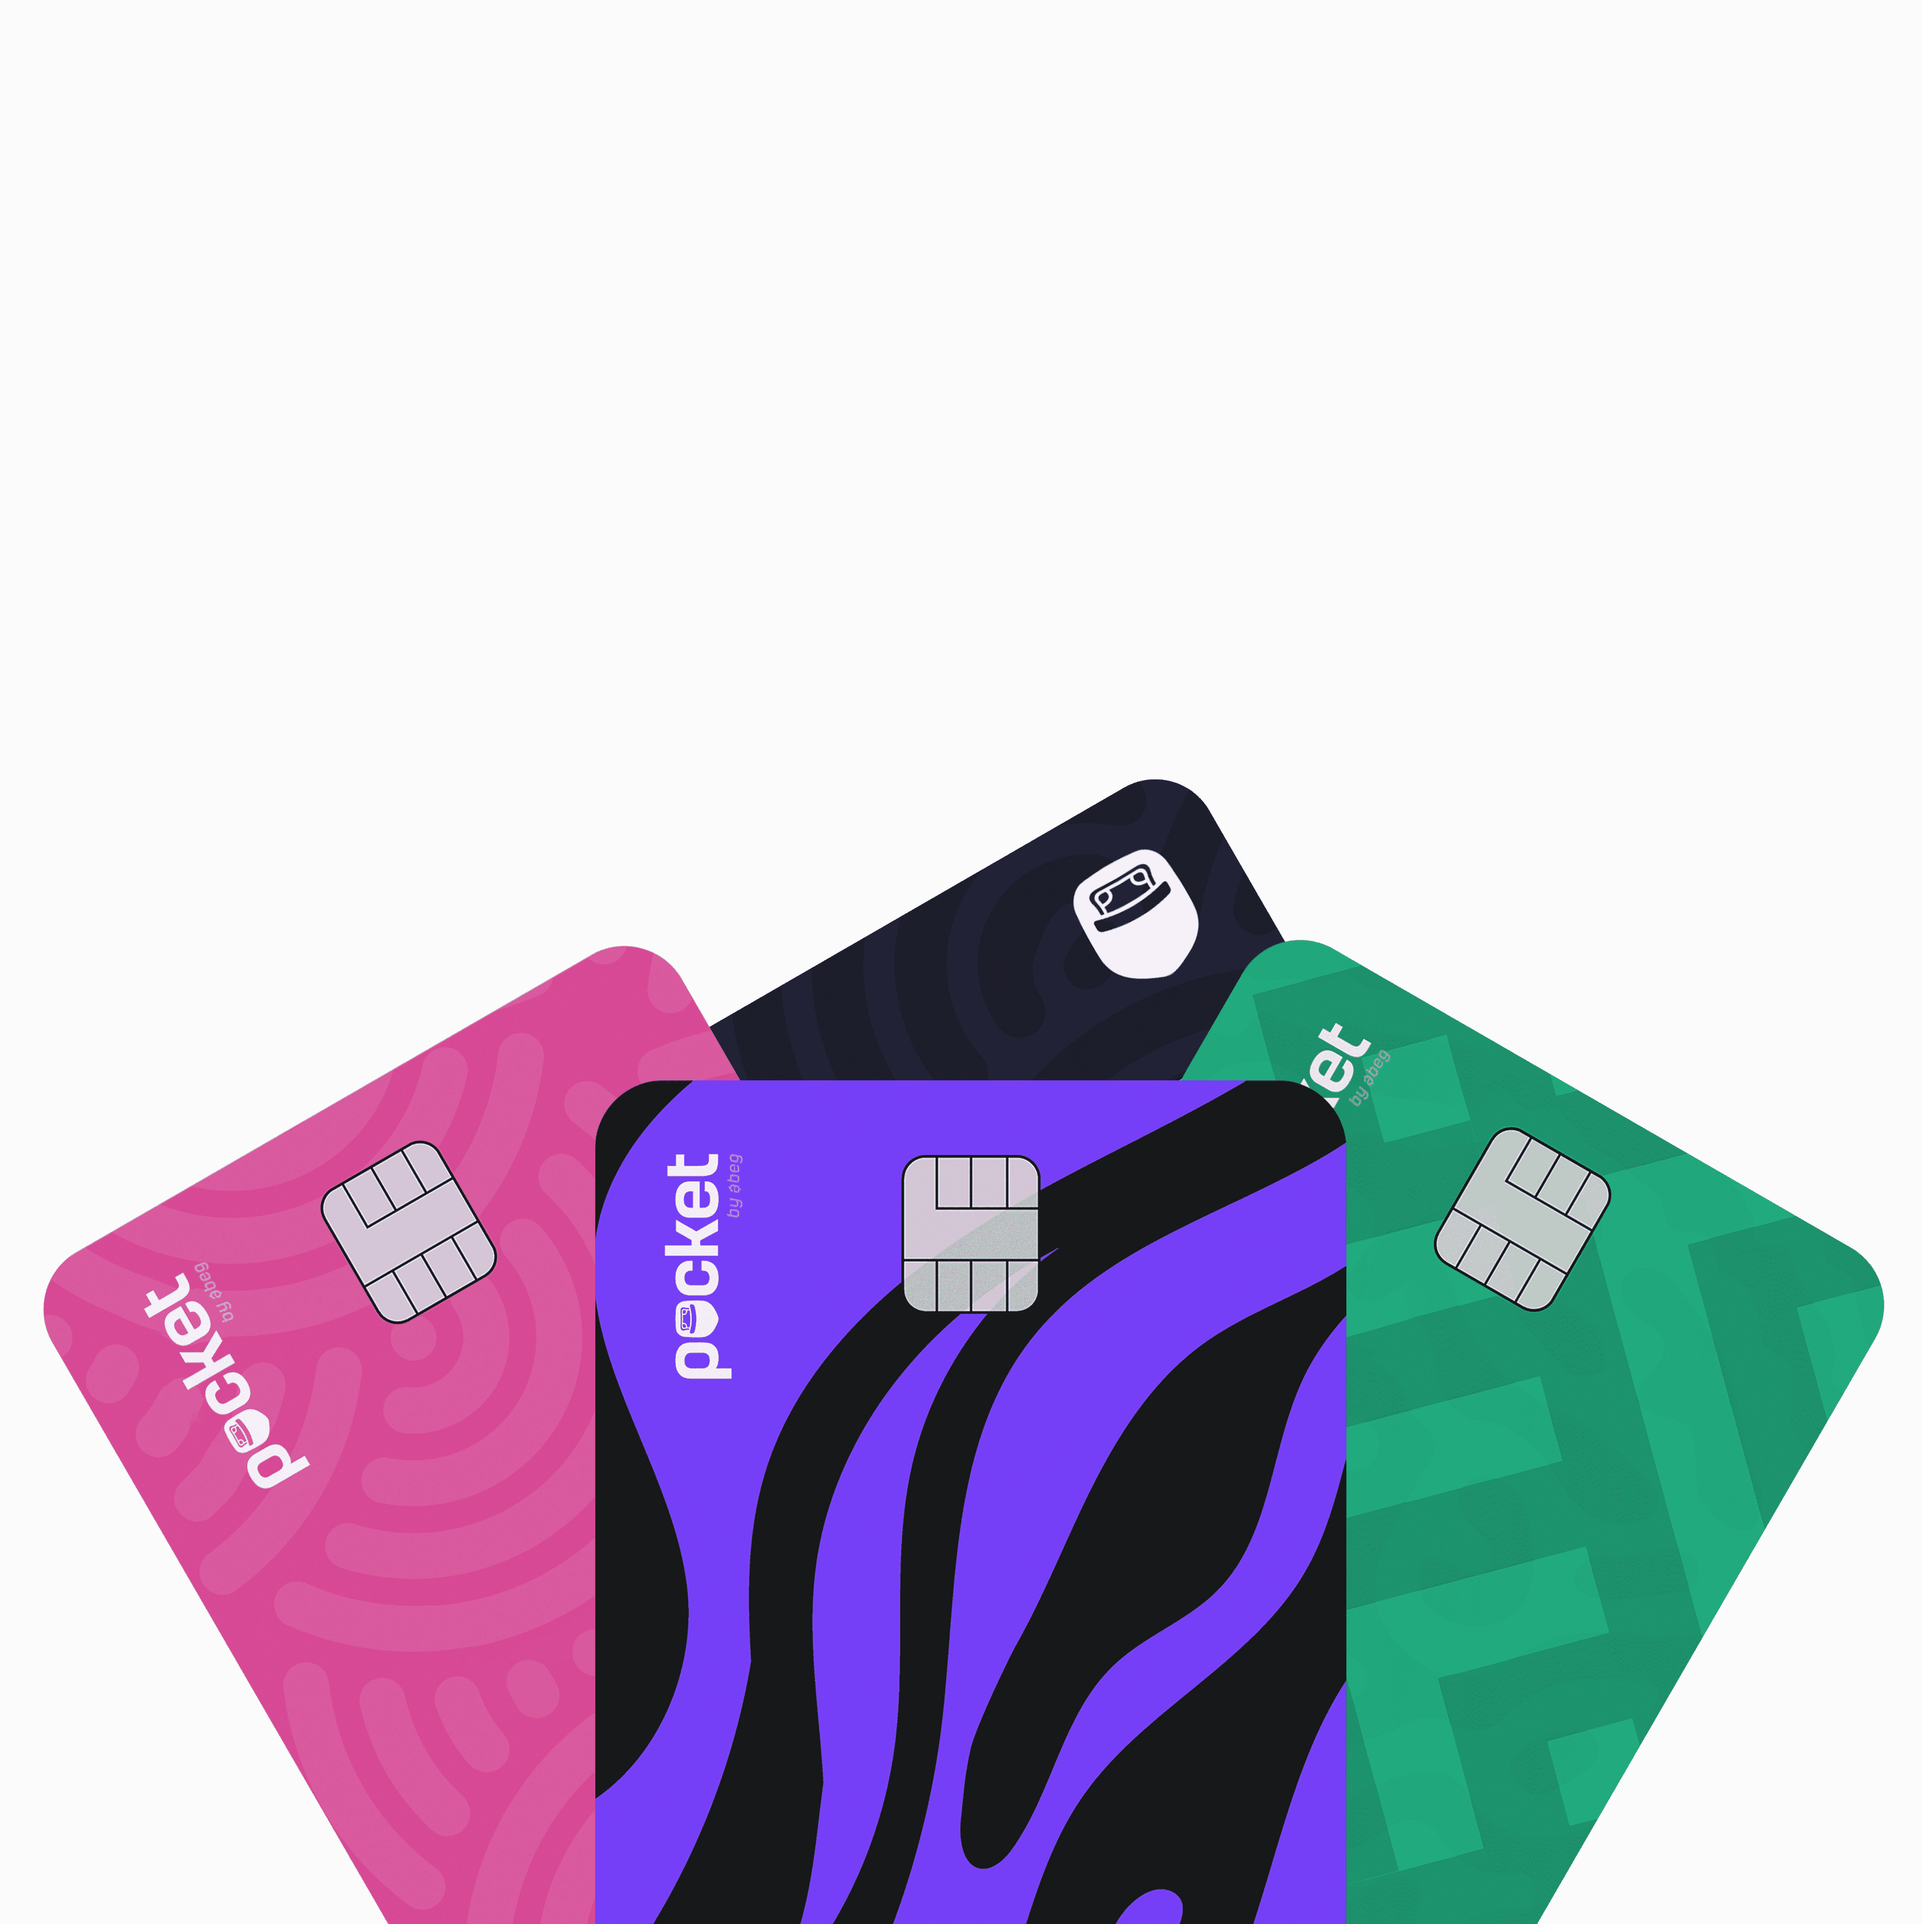
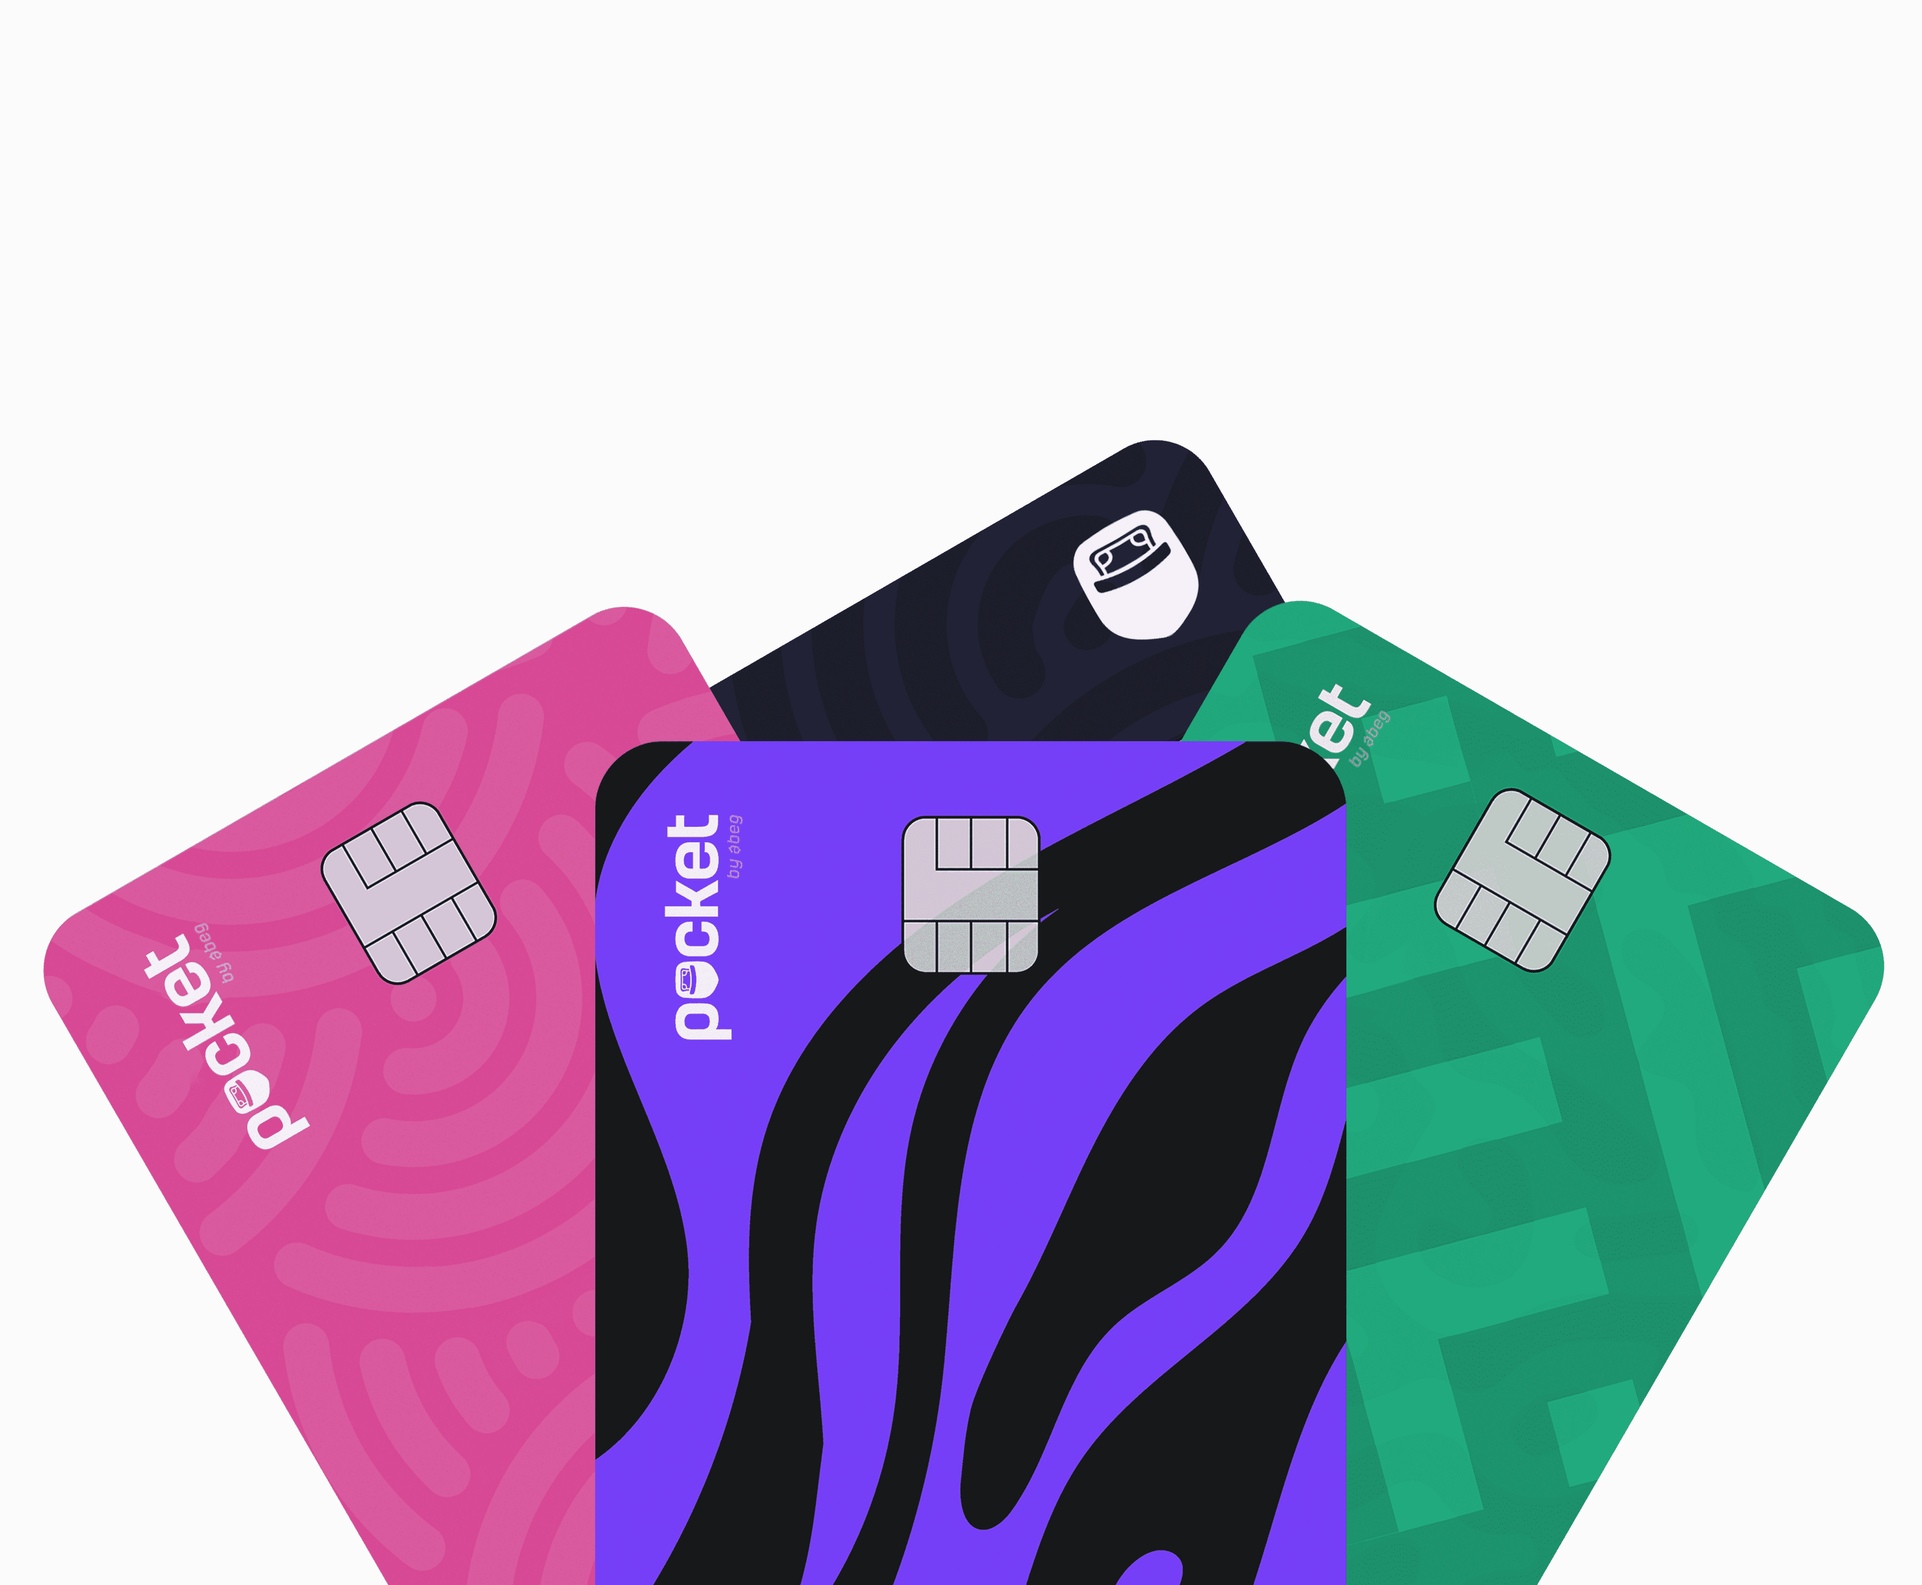
asas

diff --git a/src/components/Cards.jsx b/src/components/Cards.jsx
@@ -1,4 +1,5 @@
 import card from "../assets/cardsprwal.png"
+import phone from "../assets/phoneorange.png"
 
 
 const Cards = () => {
@@ -22,7 +23,7 @@ const Cards = () => {
                       <p className="text-2xl font-bold leading-relaxed">Connect your physical card to your personal Pocket, Groups, and Shops. You're in complete control.</p>
                     </div>
                     <div className="relative flex w-full row-span-1 pb-0 mb-0">
-                      <img src={card} alt=" " className="pb-0 mx-auto mb-0 md:-mt-52" />
+                      <img src={card} alt=" " className="md:pt-[88px] pb-0 mx-auto mb-0 md:-mt-52" />
                     </div>
                 </div>
             </div>
@@ -30,11 +31,12 @@ const Cards = () => {
 
 
             {/* Orange */}
-            <div className="md:col-span-2  col-span-1 min-h-[600px] bg-[#f9a70b] rounded-[36px]">
+            <div className="md:col-span-2  col-span-1 bg-[#f9a70b] rounded-[36px]">
               <div className="flex pt-10 ">
                 <svg className="mx-auto " width="5.188em" height="5.188em" viewBox="0 0 83 83" fill="none" xmlns="http://www.w3.org/2000/svg"><rect width="83" height="83" rx="32" fill="#fff"></rect><path fill-rule="evenodd" clip-rule="evenodd" d="M62 42c0 11.046-8.954 20-20 20s-20-8.954-20-20 8.954-20 20-20 20 8.954 20 20ZM48.004 52l2-4-5.896-3.962-3.886-.248L38.004 46l4 6h6ZM36.012 36.01 34.002 40l-6.457-4.87C30.115 29.731 35.62 26 41.999 26c1.342 0 2.645.165 3.89.476L44.002 34l-7.99 2.01Z" fill="#FFA400"></path></svg>
               </div>
-              <p className="text-center">Spend globally with virtual cards</p>
+              <p className="p-10 text-xl font-bold text-center">Spend globally with virtual cards</p>
+              <img src={phone} alt=" " className= " w-[70%] pb-0 mx-auto" />
             </div>
         </div>
     </div>
